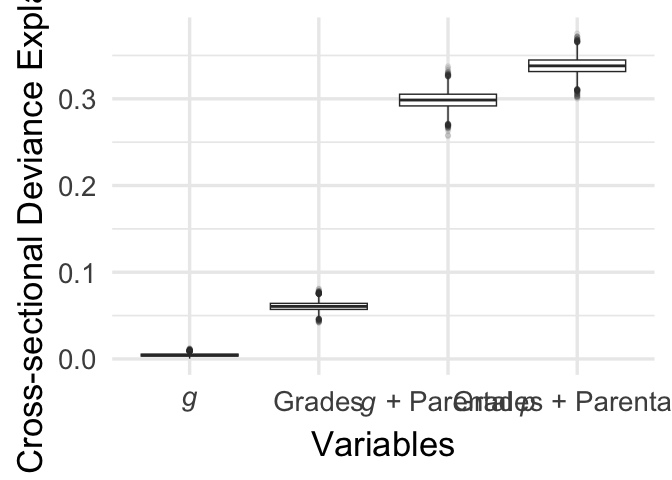
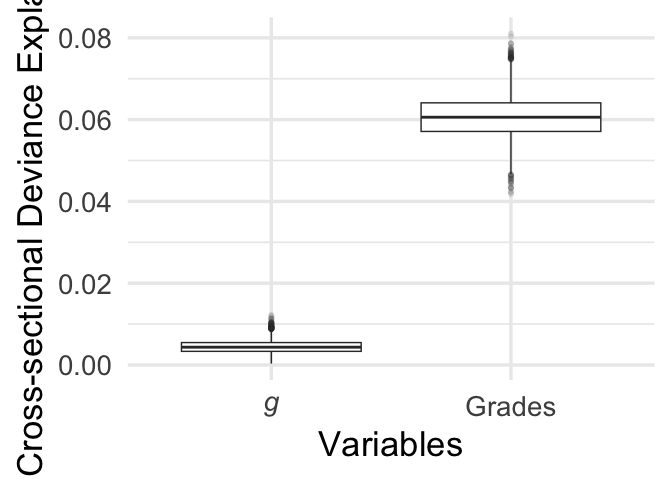
minor + anim

diff --git a/Step1_SampleConstruction/SampleConstruction.md b/Step1_SampleConstruction/SampleConstruction.md
@@ -514,9 +514,6 @@ Yextended$g<-y.pca$scores[,1]
 
 # merge in cog data
 masterdf$g<-Yextended$g
-
-# removal of one participant more than 3 S.D. from every other participant
-masterdf=masterdf[masterdf$g>-7.5,]
 ```
 
 ``` r
@@ -809,3 +806,87 @@ print(dim(OutDFTmpPrec))
 # save it out
 saveRDS(OutDFTmpPrec,'~/OutDFTmpPrec.rds')
 ```
+
+``` r
+# basic t-test for boys vs. girls: baseline
+bBV=subset(df1,sex=="M")
+gBV=subset(df1,sex=="F")
+t.test(bBV$cbcl_scr_syn_totprob_r,gBV$cbcl_scr_syn_totprob_r)
+```
+
+    ## 
+    ##  Welch Two Sample t-test
+    ## 
+    ## data:  bBV$cbcl_scr_syn_totprob_r and gBV$cbcl_scr_syn_totprob_r
+    ## t = 7.1696, df = 4762.6, p-value = 8.681e-13
+    ## alternative hypothesis: true difference in means is not equal to 0
+    ## 95 percent confidence interval:
+    ##  2.566046 4.497530
+    ## sample estimates:
+    ## mean of x mean of y 
+    ##  19.45597  15.92418
+
+``` r
+# basic t-test for boys vs. girls: 2-years
+b2=subset(df2,sex=="M")
+g2=subset(df2,sex=="F")
+t.test(b2$cbcl_scr_syn_totprob_r,g2$cbcl_scr_syn_totprob_r)
+```
+
+    ## 
+    ##  Welch Two Sample t-test
+    ## 
+    ## data:  b2$cbcl_scr_syn_totprob_r and g2$cbcl_scr_syn_totprob_r
+    ## t = 5.6814, df = 4779.4, p-value = 1.415e-08
+    ## alternative hypothesis: true difference in means is not equal to 0
+    ## 95 percent confidence interval:
+    ##  1.763247 3.621259
+    ## sample estimates:
+    ## mean of x mean of y 
+    ##  17.62646  14.93420
+
+``` r
+# and by poverty status # new subsetting
+masterdf$poverty=0
+masterdf$income<-as.numeric(masterdf$income)
+# note that poverty is defined as income < 5: https://collection3165.readthedocs.io/en/stable/recommendations/#2-the-bids-participants-files-and-matched-groups
+masterdf$poverty[masterdf$income<5]=1
+masterdf$poverty=as.ordered(masterdf$poverty)
+df1=masterdf[masterdf$eventname=='baseline_year_1_arm_1',]
+df2=masterdf[masterdf$eventname=='2_year_follow_up_y_arm_1',]
+# now divide
+pBV=subset(df1,poverty==1)
+npBV=subset(df1,poverty==0)
+t.test(pBV$cbcl_scr_syn_totprob_r,npBV$cbcl_scr_syn_totprob_r)
+```
+
+    ## 
+    ##  Welch Two Sample t-test
+    ## 
+    ## data:  pBV$cbcl_scr_syn_totprob_r and npBV$cbcl_scr_syn_totprob_r
+    ## t = 5.3176, df = 723.47, p-value = 1.403e-07
+    ## alternative hypothesis: true difference in means is not equal to 0
+    ## 95 percent confidence interval:
+    ##  3.047795 6.615467
+    ## sample estimates:
+    ## mean of x mean of y 
+    ##  21.96921  17.13758
+
+``` r
+# basic t-test for boys vs. girls: 2-years
+p2=subset(df2,poverty==1)
+np2=subset(df2,poverty==0)
+t.test(p2$cbcl_scr_syn_totprob_r,np2$cbcl_scr_syn_totprob_r)
+```
+
+    ## 
+    ##  Welch Two Sample t-test
+    ## 
+    ## data:  p2$cbcl_scr_syn_totprob_r and np2$cbcl_scr_syn_totprob_r
+    ## t = 4.4975, df = 718.63, p-value = 8.014e-06
+    ## alternative hypothesis: true difference in means is not equal to 0
+    ## 95 percent confidence interval:
+    ##  2.242508 5.717012
+    ## sample estimates:
+    ## mean of x mean of y 
+    ##  19.80065  15.82089

diff --git a/Figures/code/Fig3.md b/Figures/code/Fig3.md
@@ -366,7 +366,11 @@ ggplot(boysPoor, aes(x = cbcl_scr_syn_totprob_r, y = plotGrades)) +
 ``` r
 # deviance explained plots
 DevExpl=readRDS('~/Desktop/g_p/F3-5DevExpl.rds')
+# filter to just children
+DevExpl=DevExpl[,1:2]
 DevExpl_L=readRDS('~/Desktop/g_p/F3-5DevExpl_longit.rds')
+# filter to just children
+DevExpl_L=DevExpl_L[,1:3]
 # extract deviance explained above-any-beyond dev expl py timepoint 1 p
 DevExpl_L_Relative=DevExpl_L-DevExpl_L[,1]
 
@@ -376,7 +380,7 @@ df_long <- reshape2::melt(DevExpl)
     ## No id variables; using all as measure variables
 
 ``` r
-custom_labels <- c(expression(italic(g)), "Grades", expression(paste(italic(g), " + Parental ", italic("p"))),expression(paste("Grades + Parental ", italic("p"))))
+custom_labels <- c(expression(italic(g)), "Grades")
 # Create the boxplot - 1350 x 800 dimensions
 ggplot(df_long, aes(x = variable, y = value)) +
   geom_boxplot(outlier.alpha = 0.1) +
@@ -385,14 +389,14 @@ ggplot(df_long, aes(x = variable, y = value)) +
   ylab("Cross-sectional Deviance Explained") + theme_minimal(base_size=26)
 ```
 
-    ## Warning: Removed 4 rows containing non-finite values (`stat_boxplot()`).
+    ## Warning: Removed 3 rows containing non-finite values (`stat_boxplot()`).
 
 ![](Fig3_files/figure-gfm/unnamed-chunk-8-1.png)<!-- -->
 
 ``` r
 # now for longitudinal variables
-custom_labels <- c(expression(italic(g)), "Grades", expression(paste(italic(g), " + Parental ", italic("p"))),expression(paste("Grades + Parental ", italic("p"))))
-df_long <- reshape2::melt(DevExpl_L_Relative[,2:5])
+custom_labels <- c(expression(italic(g)), "Grades")
+df_long <- reshape2::melt(DevExpl_L_Relative[,2:3])
 ```
 
     ## No id variables; using all as measure variables
@@ -406,7 +410,7 @@ ggplot(df_long, aes(x = variable, y = value)) +
   ylab("Longitudinal Deviance Explained") + theme_minimal(base_size=26)
 ```
 
-    ## Warning: Removed 3 rows containing non-finite values (`stat_boxplot()`).
+    ## Warning: Removed 1 rows containing non-finite values (`stat_boxplot()`).
 
 ![](Fig3_files/figure-gfm/unnamed-chunk-8-2.png)<!-- -->
 
